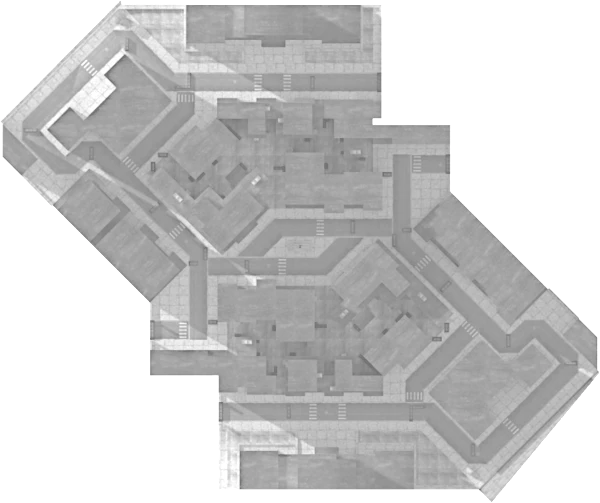
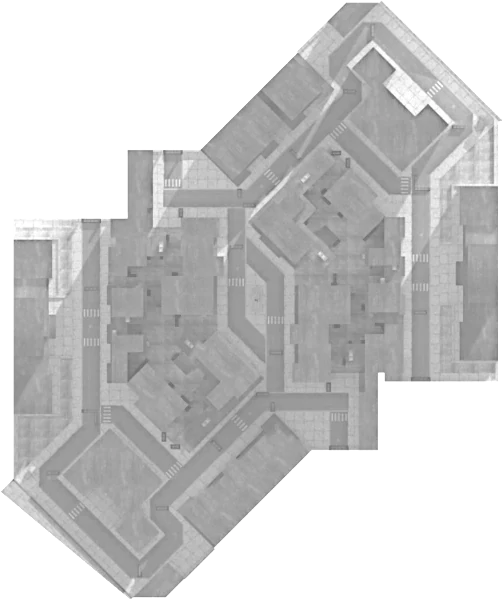
Fixed heatmap overlays for most of the Firearms maps.

diff --git a/README.md b/README.md
@@ -79,7 +79,7 @@ Most of the links and references to psychostats.com have been removed as that do
 * Clean up deprecated PHP.
 * Clean up obsolete and deprecated html.
 * Update The Battle Grounds III support.
-* Fix the orientation on heatmaps for Firearms, Natural Selection and TFC.
+* Fix heatmaps for Firearms, Natural Selection and TFC.
 
 ## **Credits**
 
